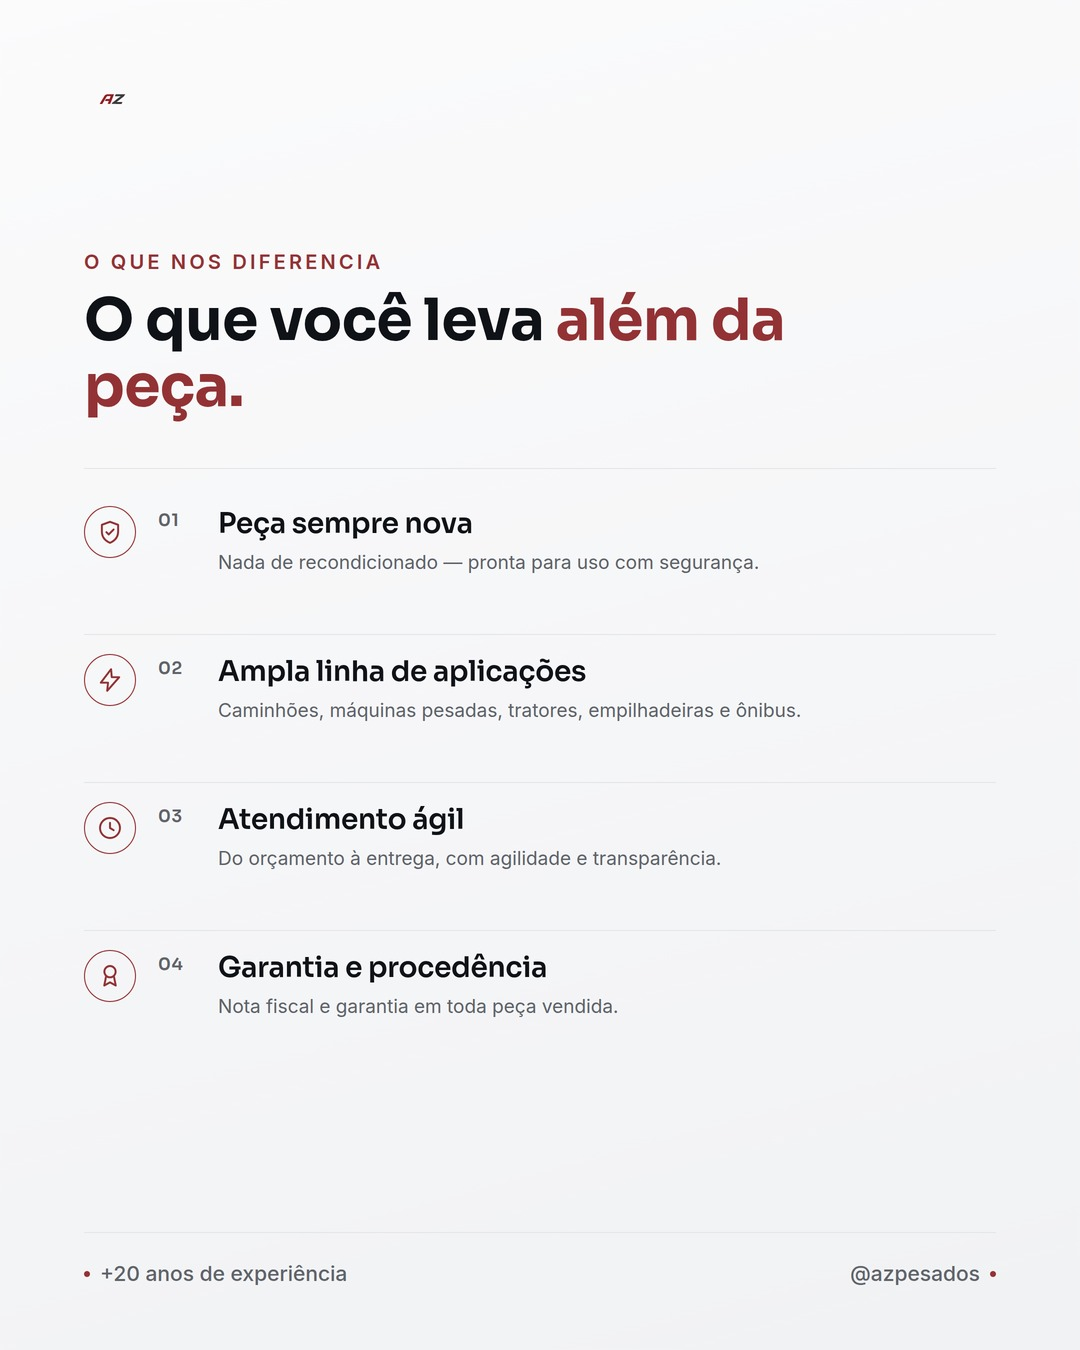
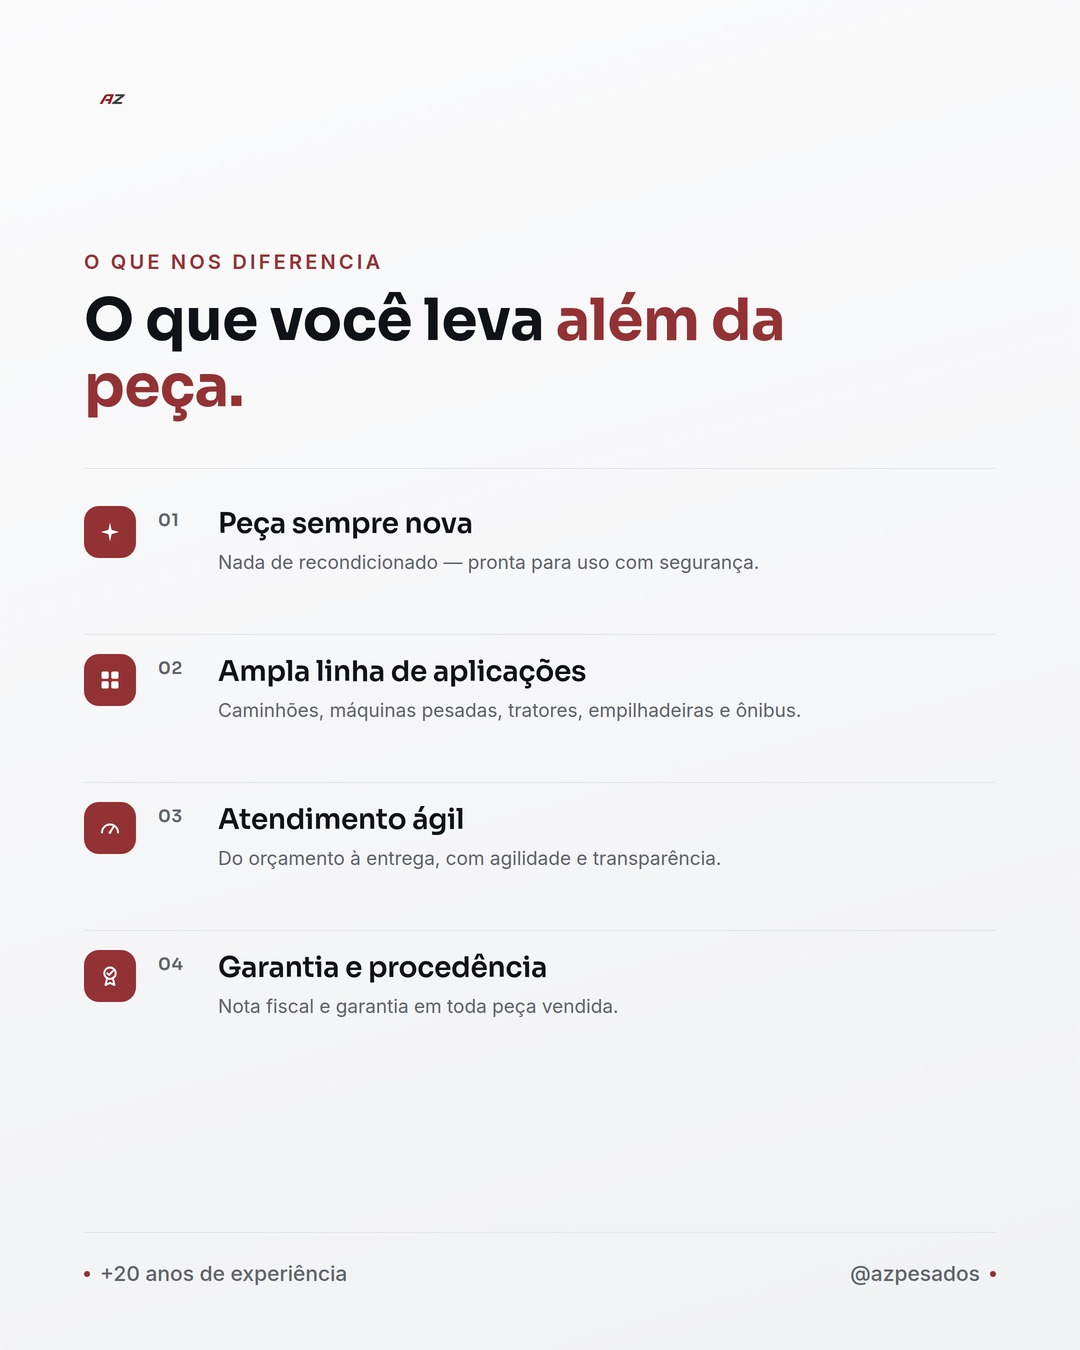
Redesenha os ícones do post de diferenciais
Troca os ícones de contorno (shield/zap/clock/award, iguais aos do
site) por desenhos próprios em badges preenchidos: sparkle, grade,
velocímetro e selo com check.

Claude-Session: https://claude.ai/code/session_01P4dFtbpr6ATd4oYWuebosk

diff --git a/posts/fixados/02-diferenciais.md b/posts/fixados/02-diferenciais.md
@@ -7,7 +7,7 @@
 
 ![Post Nossos Diferenciais](imagens/02-diferenciais.jpg)
 
-Versão single-image com os 4 principais diferenciais em lista numerada com regras finas (não é o grid de cards do site), fundo claro liso — mesma paleta clara/vermelho vinho. Título e números usam a fonte Sora (os outros dois posts fixados usam Space Grotesk).
+Versão single-image com os 4 principais diferenciais em lista numerada com regras finas (não é o grid de cards do site), fundo claro liso — mesma paleta clara/vermelho vinho. Título e números usam a fonte Sora (os outros dois posts fixados usam Space Grotesk). Ícones desenhados à parte (sparkle, grade, velocímetro, selo) em badges preenchidos, para não repetir os ícones (lucide) usados no site.
 
 ## Legenda
 
